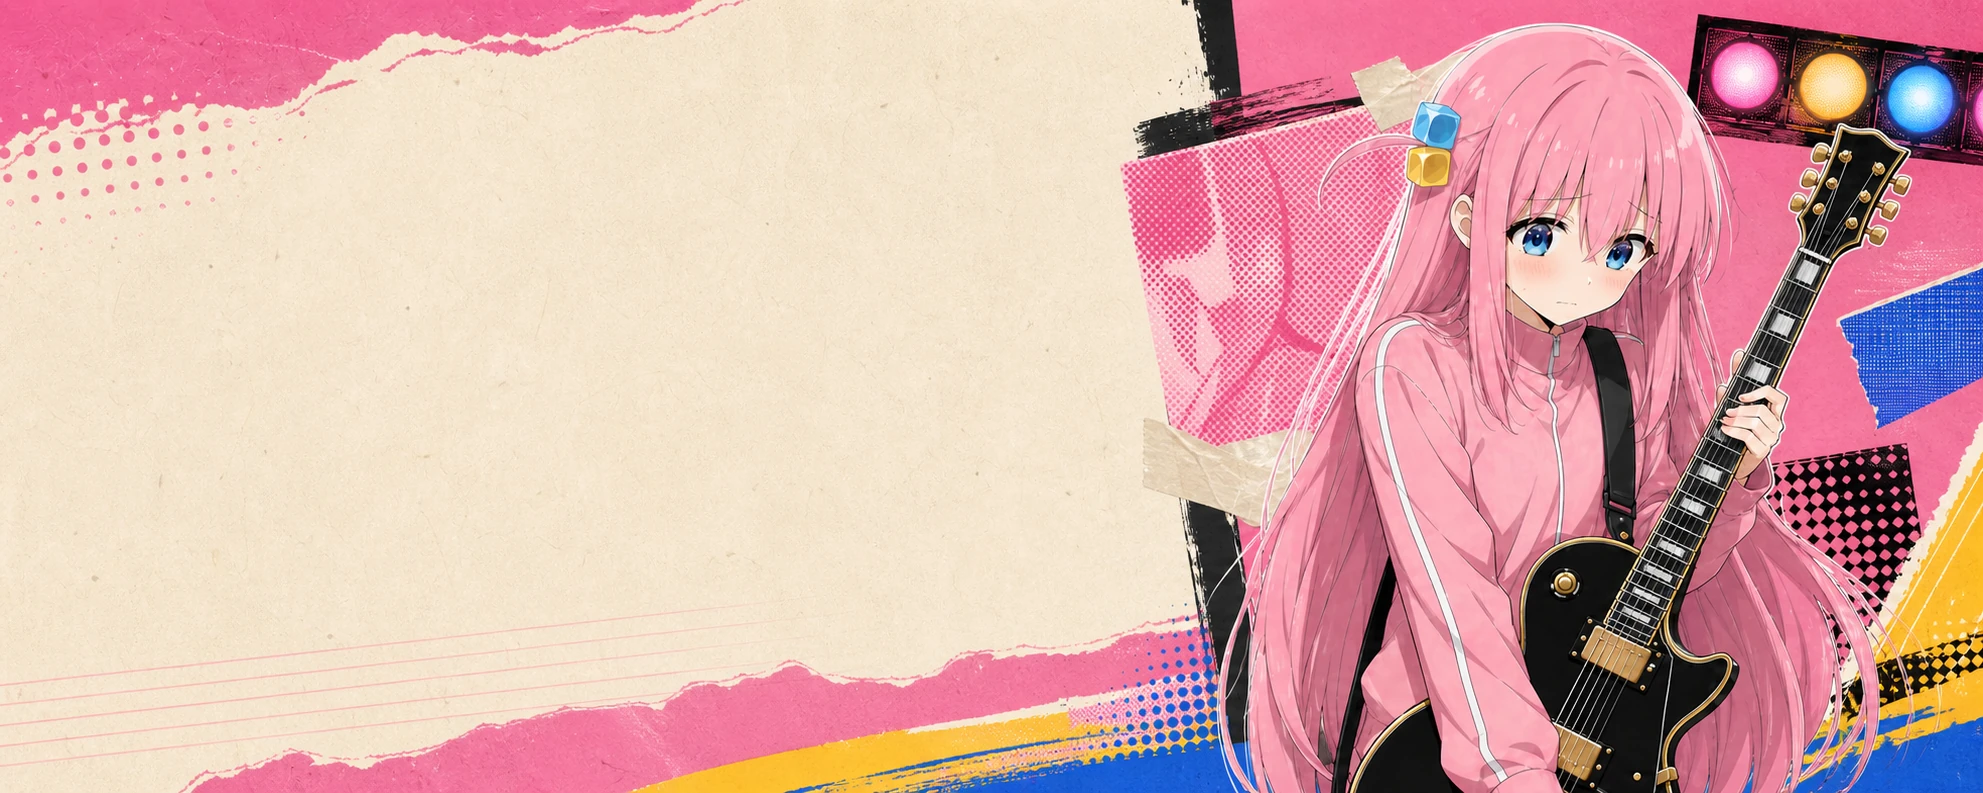
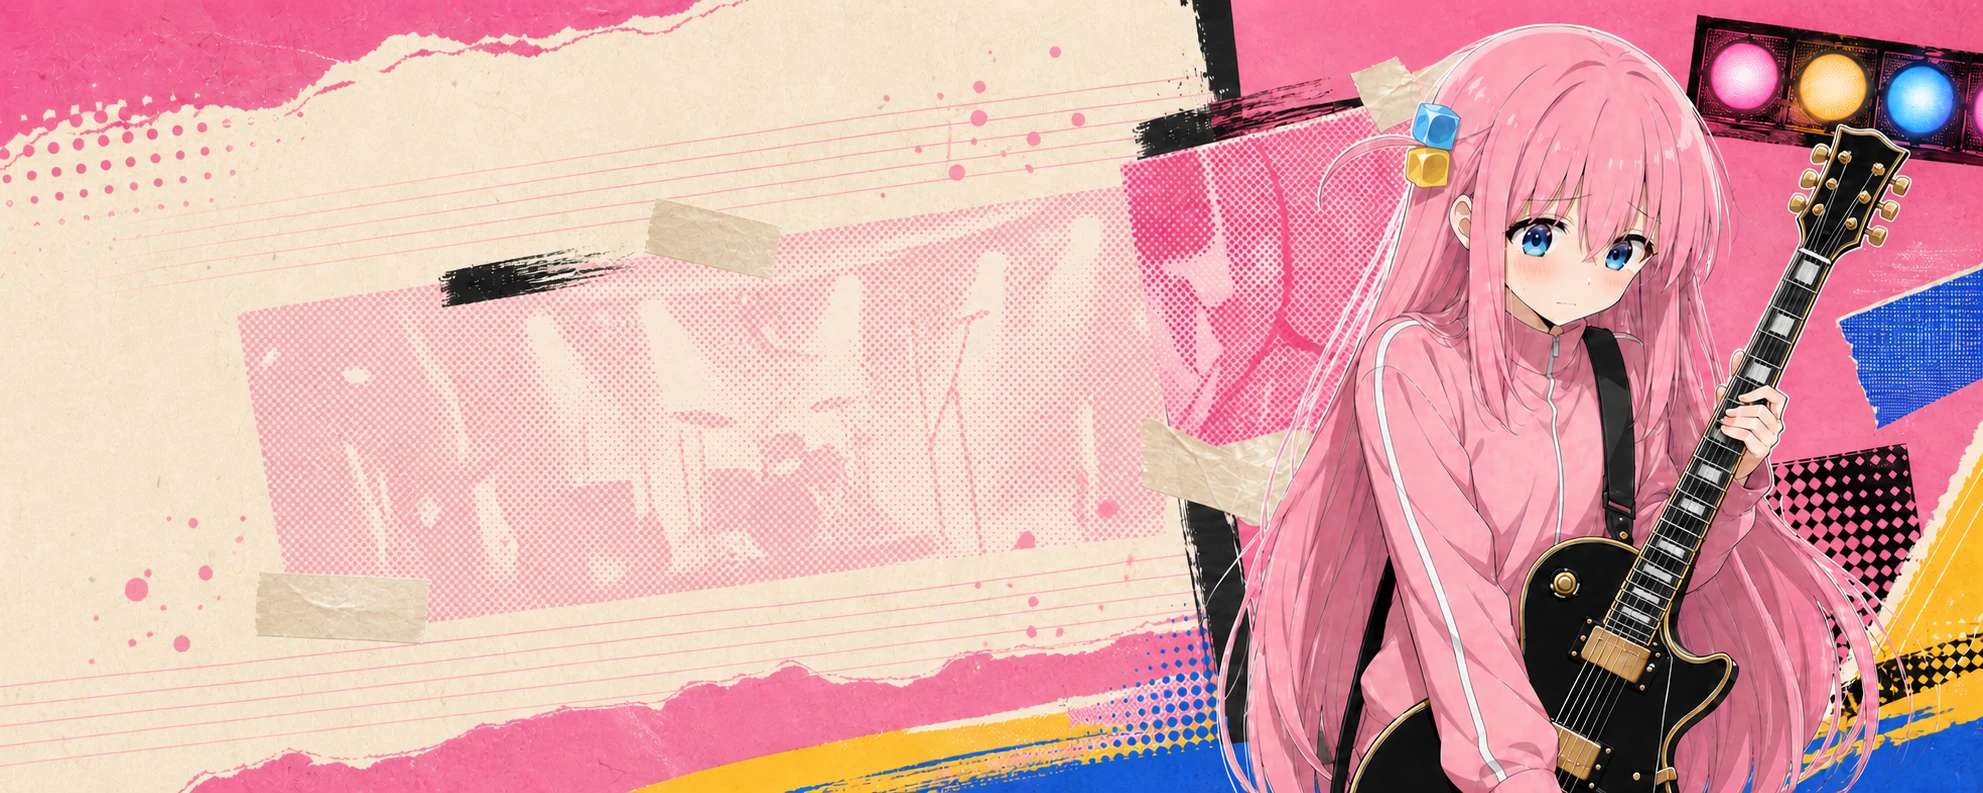
Fix playback and compact hero

diff --git a/src/App.jsx b/src/App.jsx
@@ -951,11 +951,11 @@ export default function App() {
         replaceSettings({ ...settingsRef.current, bpm });
       }
 
-      const gapPattern = practice ? [] : makeActiveGapPattern(settingsRef.current);
+      const gapPattern = makeActiveGapPattern(settingsRef.current);
 
       let mediaAudio = null;
       if (isIOS) {
-        const countingIn = Boolean(practice) || (settingsRef.current.countIn && !preserveTempo);
+        const countingIn = settingsRef.current.countIn && !preserveTempo;
         const media = new Audio();
         media.loop = true;
         media.preload = "auto";
@@ -1070,11 +1070,10 @@ export default function App() {
             const gapMuted = Boolean(event.gap);
             const elapsed = performance.now() / 1000 - mediaAudio.startedAt;
             const nextMinuteDeadline =
-              !practice && current.trainer && current.changeMode === "minute"
+              current.trainer && current.changeMode === "minute"
                 ? advanceMinuteDeadline(elapsed, minuteDeadlineRef.current)
                 : null;
             const barsDue =
-              !practice &&
               current.trainer &&
               current.changeMode === "bars" &&
               enteredBar &&
@@ -1135,7 +1134,7 @@ export default function App() {
         settingsRef.current.bars.length,
       );
       const countInBarIndex = loopRange?.[0] ?? 0;
-      const countInBeats = practice || (settingsRef.current.countIn && !preserveTempo)
+      const countInBeats = settingsRef.current.countIn && !preserveTempo
         ? settingsRef.current.bars[countInBarIndex].beats.length
         : 0;
       const countInTicks = countInBeats * transport.PPQ;
@@ -1188,7 +1187,7 @@ export default function App() {
           barsRef.current > 0 &&
           barsRef.current % current.changeEvery === 0;
 
-        if (!practice && current.trainer && (barsDue || nextMinuteDeadline !== null)) {
+        if (current.trainer && (barsDue || nextMinuteDeadline !== null)) {
           if (nextMinuteDeadline !== null) minuteDeadlineRef.current = nextMinuteDeadline;
           const nextBpm = nextTrainingBpm(current.bpm, current.targetBpm, current.changeAmount);
           if (nextBpm !== current.bpm) {
@@ -1272,7 +1271,8 @@ export default function App() {
       setPlaying(true);
       setStatus(countInTicks ? "预备 1 小节" : "运行中");
       transport.start(countInTicks ? "+0.2" : preserveTempo ? "+0.025" : "+0.05");
-    } catch {
+    } catch (error) {
+      console.error("Unable to start playback", error);
       if (run === generationRef.current) stop("请再次点击");
     } finally {
       if (run === generationRef.current) startingRef.current = false;

diff --git a/src/styles.css b/src/styles.css
@@ -2163,7 +2163,7 @@ body::before {
 }
 
 [data-visual-style="poster"] .theme-stage {
-  aspect-ratio: 5 / 2;
+  aspect-ratio: 16 / 5;
   border-radius: 15px;
 }
 
@@ -2738,6 +2738,10 @@ input[type="range"]::-webkit-slider-thumb {
 }
 
 @media (max-width: 700px) {
+  [data-visual-style="poster"] .theme-stage {
+    aspect-ratio: 5 / 2;
+  }
+
   .quick-settings-row {
     grid-template-columns: minmax(0, 1fr);
   }
